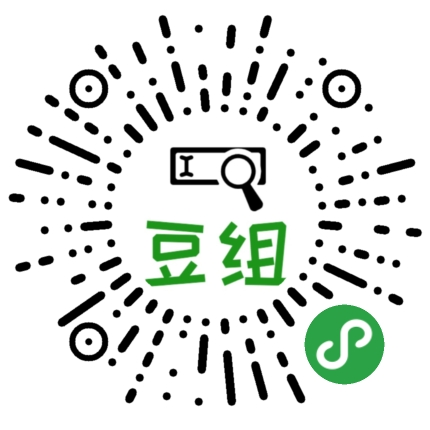
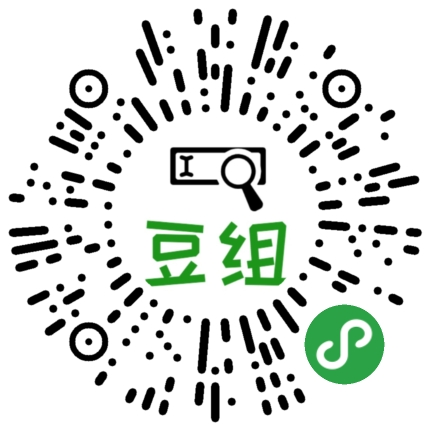
docs: 截图

diff --git a/README.md b/README.md
@@ -4,9 +4,9 @@
 * 多关键词置顶、过滤
 * 中介过滤 40%+
 
-![截屏](https://i.loli.net/2019/11/03/mRWHVG2NCilBwX1.jpg)<br/>
-<img src="https://i.loli.net/2019/11/03/CZoJDXVwh4lAmdH.png" height="400" style="margin-right: 10px;" />
-<img src="https://i.loli.net/2019/11/03/Y91QVhXxSFo3ypO.png" height="400" />
+![微信二维码](https://i.loli.net/2019/12/10/9TKYouELw8HR3Zk.jpg)<br/>
+<img src="https://i.loli.net/2019/12/10/nM27T9lCePS5XEp.png" height="400" style="margin-right: 10px;" />
+<img src="https://i.loli.net/2019/12/10/cH5NbMyBV8oUAjp.png" height="400" />
 
 
 ## 背景
